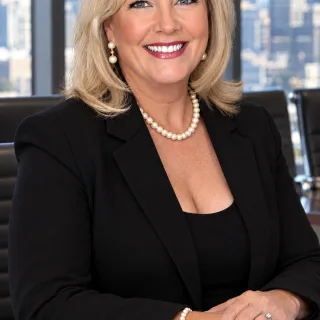
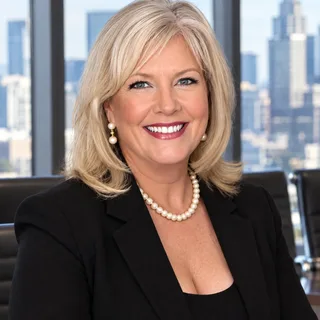
TH-33: per-member headshot crop focal point; regenerate Margo Brandt
Margo Brandt's committed headshot was missing the top of her head: the
sync script centre-cropped a 1536x2752 portrait original and threw away
the headroom. The /panel grid and bio page render the whole square asset,
so no CSS object-position could recover it.

- src/data/panel.ts: optional `cropFocusY` (0..1 of the original height,
  undefined = 0.5 = the previous centre crop). Only Margo sets it (0.36,
  tuned so her eye line sits ~27% down like Albert Thorne's).
- scripts/lib/headshot-crop.ts: pure `squareCropBox(w, h, focusY)`.
- scripts/sync-panel-headshots.ts: focal-point crop via extract+resize,
  `--only <slug[,slug]>` to re-sync one member, `file://` image URLs for
  fixtures, and a fix so re-syncing an unchanged look no longer fails the
  manifest write-back.
- scripts/tests/headshot-crop.test.ts: geometry unit tests plus an
  end-to-end `--only` run against a synthetic portrait.
- public/panel/margo-brandt{,-thumb}.webp regenerated; the other eighteen
  WebPs are byte-identical (sha256 checked).
- docs/screenshots/th33-*: before/after on /panel, bio and landing strip
  at 1280 and 390.

diff --git a/scripts/sync-panel-headshots.ts b/scripts/sync-panel-headshots.ts
@@ -20,9 +20,12 @@
  * The chosen look id is written back to src/data/panel.ts as `chosenLookId`
  * so the choice is reproducible.
  *
- * Image spec (Decision §5): center-crop to square, 800×800 WebP q82 as
- * public/panel/<slug>.webp and 320×320 as public/panel/<slug>-thumb.webp.
- * Originals are never written to the repo.
+ * Image spec (Decision §5, amended TH-33): crop the original to the largest
+ * square, horizontally centred and vertically centred on the member's
+ * `cropFocusY` (0..1 of the original height, default 0.5 = plain centre
+ * crop), then encode 800×800 WebP q82 as public/panel/<slug>.webp and
+ * 320×320 as public/panel/<slug>-thumb.webp. Originals are never written to
+ * the repo. Geometry lives in scripts/lib/headshot-crop.ts.
  *
  * Manifest write-back: `src/data/panel.ts` keeps one member per line. For
  * each member we find the line containing `heygenGroupId: "<id>"` and either
@@ -36,14 +39,22 @@
  * { "<groupId>": [ { id, name, created_at, image_url|preview_image_url } ] }.
  * Used when the API is unreachable from the build host but the look listing
  * (and its signed image URLs) is available another way. Selection, image
- * processing, and manifest write-back are identical in both modes.
+ * processing, and manifest write-back are identical in both modes. In this
+ * mode an image_url may also be a file:// URL (used by the tests).
  *
- * Flags: --looks <file>  --manifest <file>  --out <dir>  --dry-run
+ * Single member (TH-33):
+ *   npm run panel:sync -- --only <slug>
+ * Re-syncs only the listed slug(s) (comma-separated). The manifest must still
+ * carry exactly ten members; the other members' assets are not touched.
+ *
+ * Flags: --looks <file>  --manifest <file>  --out <dir>  --only <slug[,slug]>  --dry-run
  */
 
 import { readFile, writeFile, mkdir } from "node:fs/promises";
 import path from "node:path";
+import { fileURLToPath } from "node:url";
 import sharp from "sharp";
+import { squareCropBox } from "./lib/headshot-crop.ts";
 
 type Look = {
   id: string;
@@ -61,6 +72,7 @@ type ManifestMember = {
   role: string;
   heygenGroupId: string;
   preferredLookId?: string;
+  cropFocusY?: number; // 0..1, default 0.5 (centre); see src/data/panel.ts
 };
 
 const HEYGEN_BASE = "https://api.heygen.com";
@@ -80,6 +92,7 @@ const ROOT = process.cwd();
 const MANIFEST_PATH = path.resolve(ROOT, arg("manifest") ?? "src/data/panel.ts");
 const OUT_DIR = path.resolve(ROOT, arg("out") ?? "public/panel");
 const LOOKS_FIXTURE = arg("looks");
+const ONLY = arg("only")?.split(",").map((s) => s.trim()).filter(Boolean);
 const DRY_RUN = flag("dry-run");
 
 // ---------------------------------------------------------------- manifest
@@ -107,7 +120,15 @@ function parseManifest(src: string): ManifestMember[] {
     if (!slug || !name || !role) {
       throw new Error(`Manifest line carries heygenGroupId but is missing slug/name/role: ${line.trim()}`);
     }
-    members.push({ slug, name, role, heygenGroupId: group[1], preferredLookId: pick("preferredLookId") });
+    const focusRaw = /\bcropFocusY:\s*([0-9.]+)/.exec(line)?.[1];
+    let cropFocusY: number | undefined;
+    if (focusRaw !== undefined) {
+      cropFocusY = Number.parseFloat(focusRaw);
+      if (Number.isNaN(cropFocusY) || cropFocusY < 0 || cropFocusY > 1) {
+        throw new Error(`Manifest member ${slug} has cropFocusY ${focusRaw}; it must be a number in 0..1`);
+      }
+    }
+    members.push({ slug, name, role, heygenGroupId: group[1], preferredLookId: pick("preferredLookId"), cropFocusY });
   }
   return members;
 }
@@ -117,6 +138,7 @@ function writeChosenLook(src: string, groupId: string, lookId: string): string {
   const idx = lines.findIndex((l) => isMemberLine(l) && l.includes(`heygenGroupId: "${groupId}"`));
   if (idx < 0) throw new Error(`Could not find manifest line for group ${groupId}`);
   const line = lines[idx];
+  if (line.includes(`chosenLookId: "${lookId}"`)) return src; // same look as last sync: nothing to write
   lines[idx] = /chosenLookId:\s*"[^"]*"/.test(line)
     ? line.replace(/chosenLookId:\s*"[^"]*"/, `chosenLookId: "${lookId}"`)
     : line.replace(`heygenGroupId: "${groupId}",`, `heygenGroupId: "${groupId}", chosenLookId: "${lookId}",`);
@@ -193,16 +215,22 @@ function imageUrl(l: Look): string {
 // ---------------------------------------------------------------- images
 
 async function download(url: string): Promise<Buffer> {
+  if (url.startsWith("file://")) return readFile(fileURLToPath(url));
   const res = await fetch(url);
   if (!res.ok) throw new Error(`image download → HTTP ${res.status}`);
   return Buffer.from(await res.arrayBuffer());
 }
 
-async function squareWebp(input: Buffer, size: number): Promise<Buffer> {
-  // Center-crop to square via cover fit, then encode WebP at the spec quality.
-  return sharp(input, { failOn: "error" })
-    .rotate()
-    .resize(size, size, { fit: "cover", position: "centre" })
+async function squareWebp(input: Buffer, size: number, focusY = 0.5): Promise<Buffer> {
+  // Apply EXIF orientation first so the measured dimensions match the pixels
+  // we crop, then take the focal-point square and encode WebP at spec quality.
+  const rotated = await sharp(input, { failOn: "error" }).rotate().toBuffer();
+  const { width, height } = await sharp(rotated).metadata();
+  if (!width || !height) throw new Error("could not read image dimensions");
+  const box = squareCropBox(width, height, focusY);
+  return sharp(rotated)
+    .extract({ left: box.left, top: box.top, width: box.size, height: box.size })
+    .resize(size, size)
     .webp({ quality: QUALITY })
     .toBuffer();
 }
@@ -215,6 +243,14 @@ async function main() {
   if (members.length !== 10) {
     throw new Error(`Expected exactly 10 panel members in the manifest (TF-DEC-31), found ${members.length}`);
   }
+  let targets = members;
+  if (ONLY && ONLY.length > 0) {
+    const known = new Set(members.map((m) => m.slug));
+    const unknown = ONLY.filter((s) => !known.has(s));
+    if (unknown.length > 0) throw new Error(`--only names unknown slug(s): ${unknown.join(", ")}`);
+    targets = members.filter((m) => ONLY.includes(m.slug));
+  }
+  console.log(`Syncing ${targets.length} of ${members.length} members${ONLY ? ` (--only ${ONLY.join(",")})` : ""}.`);
 
   let fixture: Record<string, Look[]> | null = null;
   let apiKey: string | undefined;
@@ -239,8 +275,8 @@ async function main() {
   const failures: string[] = [];
   let updated = manifestSrc;
 
-  for (const m of members) {
-    console.log(`→ ${m.slug}`);
+  for (const m of targets) {
+    console.log(`→ ${m.slug}${m.cropFocusY !== undefined ? ` (cropFocusY ${m.cropFocusY})` : ""}`);
     try {
       const looks = fixture ? fixture[m.heygenGroupId] ?? [] : await fetchLooksLive(m.heygenGroupId, apiKey!);
       if (looks.length === 0) {
@@ -248,7 +284,8 @@ async function main() {
       }
       const look = chooseLook(looks, m.preferredLookId);
       const original = await download(imageUrl(look));
-      const [full, thumb] = await Promise.all([squareWebp(original, FULL), squareWebp(original, THUMB)]);
+      const focusY = m.cropFocusY ?? 0.5;
+      const [full, thumb] = await Promise.all([squareWebp(original, FULL, focusY), squareWebp(original, THUMB, focusY)]);
       const fullPath = path.join(OUT_DIR, `${m.slug}.webp`);
       const thumbPath = path.join(OUT_DIR, `${m.slug}-thumb.webp`);
       if (!DRY_RUN) {

diff --git a/scripts/tests/headshot-crop.test.ts b/scripts/tests/headshot-crop.test.ts
@@ -1,0 +1,109 @@
+// Offline tests for the headshot crop geometry and the single-member sync path (Linear TH-33).
+// Run: npm test
+
+import { test } from "node:test";
+import assert from "node:assert/strict";
+import { execFile } from "node:child_process";
+import { mkdtemp, readFile, readdir, writeFile } from "node:fs/promises";
+import { tmpdir } from "node:os";
+import { join, resolve } from "node:path";
+import { pathToFileURL } from "node:url";
+import { promisify } from "node:util";
+import sharp from "sharp";
+import { squareCropBox } from "../lib/headshot-crop.ts";
+
+const ROOT = resolve(import.meta.dirname, "..", "..");
+const run = promisify(execFile);
+
+test("squareCropBox at 0.5 is the plain centre crop (pre-TH-33 behaviour)", () => {
+  assert.deepEqual(squareCropBox(1024, 1536, 0.5), { left: 0, top: 256, size: 1024 });
+  assert.deepEqual(squareCropBox(800, 800), { left: 0, top: 0, size: 800 });
+});
+
+test("squareCropBox moves the box up for a high focal point and clamps at the top edge", () => {
+  assert.deepEqual(squareCropBox(1024, 1536, 0.33), { left: 0, top: 0, size: 1024 });
+  assert.deepEqual(squareCropBox(1024, 1536, 0.4), { left: 0, top: 102, size: 1024 });
+});
+
+test("squareCropBox clamps landscape inputs horizontally and never exceeds the image", () => {
+  assert.deepEqual(squareCropBox(1536, 1024, 0.9), { left: 256, top: 0, size: 1024 });
+  assert.deepEqual(squareCropBox(1024, 1536, 1), { left: 0, top: 512, size: 1024 });
+});
+
+test("squareCropBox rejects bad inputs", () => {
+  assert.throws(() => squareCropBox(1024, 1536, 1.2), /0\.\.1/);
+  assert.throws(() => squareCropBox(1024, 1536, -0.1), /0\.\.1/);
+  assert.throws(() => squareCropBox(0, 10), /positive integers/);
+  assert.throws(() => squareCropBox(10.5, 10), /positive integers/);
+});
+
+test("sync --only regenerates one member from a file:// fixture with the focal crop applied", async () => {
+  const dir = await mkdtemp(join(tmpdir(), "th33-"));
+  const out = join(dir, "out");
+
+  // Synthetic 1024x1536 portrait: light field, dark "head" disc centred at 20% of the height.
+  const W = 1024, H = 1536, R = 150, CY = Math.round(0.2 * H);
+  const svg = `<svg xmlns="http://www.w3.org/2000/svg" width="${W}" height="${H}">
+    <rect width="100%" height="100%" fill="#e8e8e8"/>
+    <circle cx="${W / 2}" cy="${CY}" r="${R}" fill="#202020"/>
+  </svg>`;
+  const portrait = join(dir, "portrait.png");
+  await sharp(Buffer.from(svg)).png().toFile(portrait);
+
+  // Manifest copy with Margo at the focal point under test and the original value preserved for the others.
+  const manifestSrc = await readFile(join(ROOT, "src/data/panel.ts"), "utf8");
+  const manifest = join(dir, "panel.ts");
+  await writeFile(manifest, manifestSrc.replace(/cropFocusY:\s*[0-9.]+,/, "cropFocusY: 0.2,"));
+  const marker = "cropFocusY: 0.2,";
+  assert.ok((await readFile(manifest, "utf8")).includes(marker), "fixture manifest carries the focal point");
+
+  const looks = join(dir, "looks.json");
+  await writeFile(
+    looks,
+    JSON.stringify({ bf3127845753467f8a6b8a68d450176c: [{ id: "fixture-look", name: "v2", image_url: pathToFileURL(portrait).href }] }),
+  );
+
+  const { stdout } = await run(
+    "npx",
+    ["tsx", "scripts/sync-panel-headshots.ts", "--looks", looks, "--manifest", manifest, "--out", out, "--only", "margo-brandt"],
+    { cwd: ROOT, env: { ...process.env, HEYGEN_API_KEY: "" } },
+  );
+  assert.match(stdout, /Syncing 1 of 10 members/);
+
+  const files = (await readdir(out)).sort();
+  assert.deepEqual(files, ["margo-brandt-thumb.webp", "margo-brandt.webp"]);
+
+  // The only manifest change is chosenLookId on Margo's line; nothing else moved.
+  const after = await readFile(manifest, "utf8");
+  assert.match(after, /slug: "margo-brandt".*chosenLookId: "fixture-look"/);
+  assert.equal(after.split("\n").length, manifestSrc.split("\n").length);
+
+  // Head centroid lands where the focal point says (0.2 of the original -> crop top is 0, so the
+  // disc sits at 20% * 1536 / 1024 = 30% of the square), and the top row is still background.
+  const full = sharp(join(out, "margo-brandt.webp"));
+  const meta = await full.metadata();
+  assert.equal(meta.width, 800);
+  assert.equal(meta.height, 800);
+  const raw = await full.greyscale().raw().toBuffer();
+  let sumY = 0, n = 0, topRowDark = 0;
+  for (let y = 0; y < 800; y++) {
+    for (let x = 0; x < 800; x++) {
+      const v = raw[y * 800 + x];
+      if (v < 100) {
+        sumY += y; n++;
+        if (y === 0) topRowDark++;
+      }
+    }
+  }
+  assert.ok(n > 0, "the head disc is present in the output");
+  const centroid = sumY / n / 800;
+  assert.ok(centroid > 0.26 && centroid < 0.34, `head centroid ${centroid.toFixed(3)} should sit near 0.30`);
+  assert.equal(topRowDark, 0, "head is not clipped at the top edge");
+
+  const thumbMeta = await sharp(join(out, "margo-brandt-thumb.webp")).metadata();
+  assert.equal(thumbMeta.width, 320);
+
+  // Sanity: with the default focal point the same original WOULD clip the head (why TH-33 exists).
+  const centreBox = squareCropBox(W, H, 0.5);
+  assert.ok(centreBox.top > CY - R, "centre crop starts below the top of the head disc");
+});

diff --git a/src/data/panel.ts b/src/data/panel.ts
@@ -25,12 +25,19 @@ export type PanelMember = {
   chosenLookId?: string;
   image: string; // "/panel/<slug>.webp"
   thumb: string; // "/panel/<slug>-thumb.webp"
+  /**
+   * Vertical focal point of the face in the HeyGen ORIGINAL, 0..1 (0 = top
+   * edge, 1 = bottom edge). `npm run panel:sync` centres the square crop on
+   * this row. Undefined = 0.5, the plain centre crop every member got before
+   * TH-33. Set it only when a member's original is composed off-centre.
+   */
+  cropFocusY?: number;
 };
 
 // prettier-ignore
 export const PANEL: PanelMember[] = [
   { order: 1,  slug: "gilbert-faraday",   name: "Gilbert Faraday",      role: "Chief of Staff",     specialty: "Rulings, synthesis, final call",                                   heygenGroupId: "aadfa9fef6faa4547f531565fe79cec6", chosenLookId: "aadfa9fef6faa4547f531565fe79cec6", image: "/panel/gilbert-faraday.webp",   thumb: "/panel/gilbert-faraday-thumb.webp",   bio: "Chairs the panel. Asks one question, lets the panel argue, then rules, and always states what evidence would change his mind. Speaks last." },
-  { order: 2,  slug: "margo-brandt",      name: "Margo Brandt",         role: "First Officer",      specialty: "Construction, development, execution sequencing",                 heygenGroupId: "bf3127845753467f8a6b8a68d450176c", chosenLookId: "d70d92d1adfb49c9bca85d281115fb19", image: "/panel/margo-brandt.webp",      thumb: "/panel/margo-brandt-thumb.webp",      bio: "Deputy Chief of Staff. Turns every ruling into a sequence with owners and dates, and checks lead times before anyone falls in love with a design." },
+  { order: 2,  slug: "margo-brandt",      name: "Margo Brandt",         role: "First Officer",      specialty: "Construction, development, execution sequencing",                 heygenGroupId: "bf3127845753467f8a6b8a68d450176c", chosenLookId: "d70d92d1adfb49c9bca85d281115fb19", cropFocusY: 0.36, image: "/panel/margo-brandt.webp",      thumb: "/panel/margo-brandt-thumb.webp",      bio: "Deputy Chief of Staff. Turns every ruling into a sequence with owners and dates, and checks lead times before anyone falls in love with a design." },
   { order: 3,  slug: "mach-eigen",        name: "Mach Eigen",           role: "Chief Engineer",     specialty: "Power architecture: 800 VDC, BESS, SMR, construction engineering", heygenGroupId: "b62c9bacbb686ca245ae54f45c3297b0", chosenLookId: "e153df7a9df9614ef43f329fa6acc24f", image: "/panel/mach-eigen.webp",        thumb: "/panel/mach-eigen-thumb.webp",        bio: "Works from first principles. Numbers before adjectives. If a design is physically wrong, he says so, to anyone, including the vendor." },
   { order: 4,  slug: "delia-marchetti",   name: "Delia Marchetti",      role: "Press Lead",         specialty: "Markets, media, public framing",                                   heygenGroupId: "30b40d70f6277d73d7dcdbb239abf8a1", chosenLookId: "affee02bb67049a681bec2b57b7ac226", image: "/panel/delia-marchetti.webp",   thumb: "/panel/delia-marchetti-thumb.webp",   bio: "Translates the engineering answer into two sentences a county commissioner understands, and flags the line that ends up on page one before it does." },
   { order: 5,  slug: "albert-thorne",     name: "Albert Thorne",        role: "Policy",             specialty: "Grid policy, interconnection, FERC, ISOs, PUCs",                   heygenGroupId: "286965e14cca575302d4329251c4add9", chosenLookId: "286965e14cca575302d4329251c4add9", image: "/panel/albert-thorne.webp",     thumb: "/panel/albert-thorne-thumb.webp",     bio: "Distinguishes what the rule says from how the system actually behaves. Plans for the real timeline, cites the docket and the tariff section, and is rarely surprised." },

diff --git a/scripts/lib/headshot-crop.ts b/scripts/lib/headshot-crop.ts
@@ -1,0 +1,28 @@
+/**
+ * Square crop geometry for panel headshots (TH-33).
+ *
+ * Given the dimensions of an original image and a vertical focal point
+ * (0 = top edge, 1 = bottom edge, 0.5 = centre), return the largest square
+ * box that is horizontally centred and vertically centred on the focal row,
+ * clamped so it stays inside the image. With focusY = 0.5 this is exactly
+ * the centre crop the sync script produced before TH-33, so members that do
+ * not set `cropFocusY` are unaffected byte-for-byte.
+ */
+export type CropBox = { left: number; top: number; size: number };
+
+function clamp(n: number, lo: number, hi: number): number {
+  return Math.min(hi, Math.max(lo, n));
+}
+
+export function squareCropBox(width: number, height: number, focusY = 0.5): CropBox {
+  if (!Number.isInteger(width) || width <= 0 || !Number.isInteger(height) || height <= 0) {
+    throw new Error(`squareCropBox: width and height must be positive integers, got ${width}x${height}`);
+  }
+  if (typeof focusY !== "number" || Number.isNaN(focusY) || focusY < 0 || focusY > 1) {
+    throw new Error(`squareCropBox: focusY must be a number in 0..1, got ${focusY}`);
+  }
+  const size = Math.min(width, height);
+  const top = clamp(Math.round(focusY * height - size / 2), 0, height - size);
+  const left = clamp(Math.round(0.5 * width - size / 2), 0, width - size);
+  return { left, top, size };
+}
